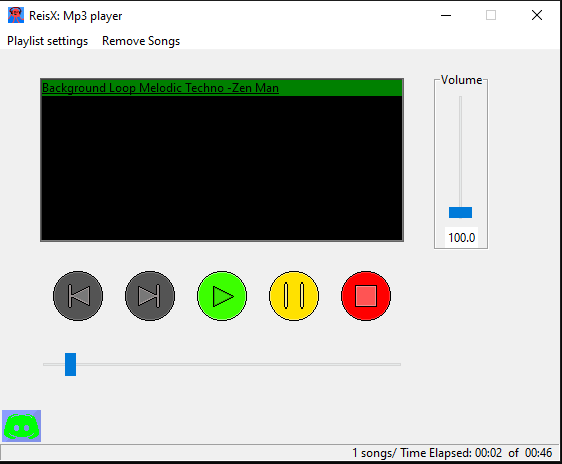
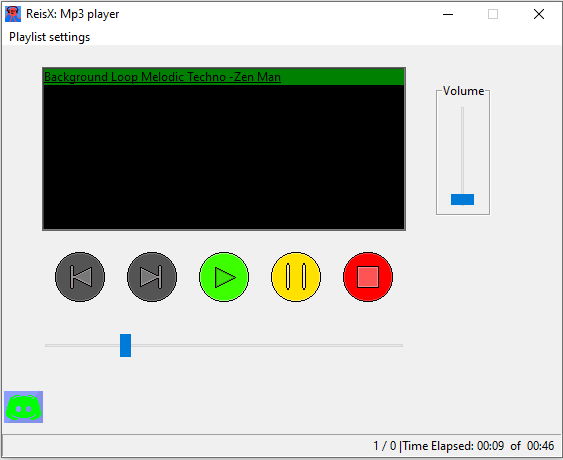
Updated readme.md for v0.0.2

Changed region(s): [[0.0, 0.0, 1.0, 1.0], [0.7562, 0.1522, 0.8772, 0.5478]]

diff --git a/README.md b/README.md
@@ -24,14 +24,6 @@ The black screen is the Playlist part you can choose the music you want to liste
 ![Playlist Settings](readme_images/Playlist_settings.png)
 
 These are the playlist settings you can refresh and mix the playlist by clicking on them.
-
-The `remove Songs` section next to the `Playlist settings` section :
-
-
-![Remove Songs](readme_images/Remove_songs.PNG)
-
-
-You can remove a song from the playlist or you can remove all the songs in the playlist by clicking them.
 This music player supports [discord](https://discord.com/) activites this works only with desktop discord app.
 
 ![discord realtime](readme_images/Discord-activity.png)
@@ -51,6 +43,7 @@ Any contributions you make are greatly appreciated.
 6. [os](https://docs.python.org/3.8/library/os.html)
 7. [requests===2.25.1](https://pypi.org/project/requests/)
 8. [pypresence==4.2.0](https://github.com/qwertyquerty/pypresence/)
+9. [keyboard==0.13.5](https://pypi.org/project/keyboard/)
 
 
 
